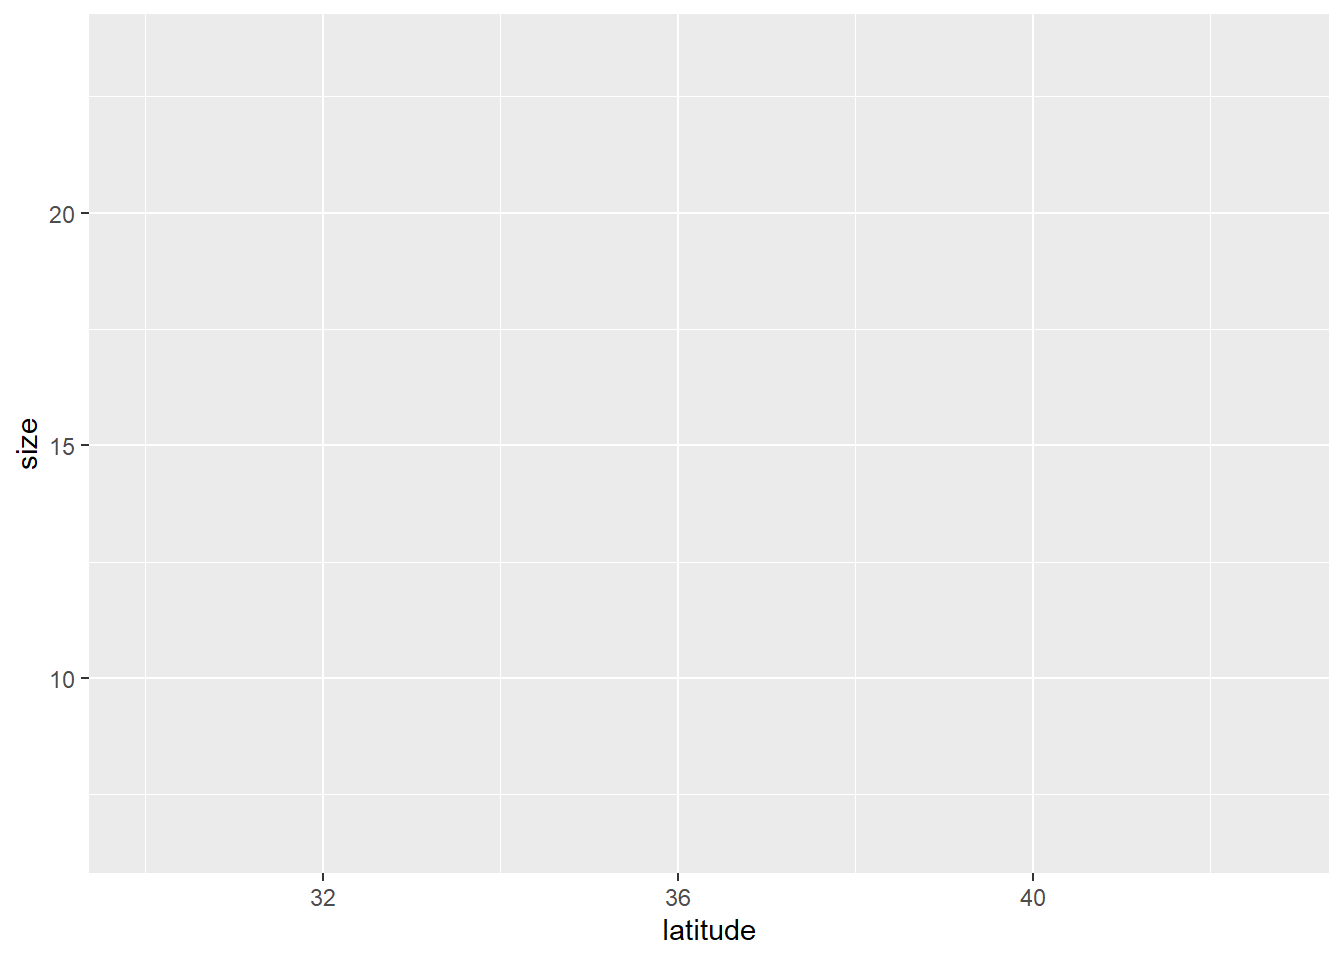
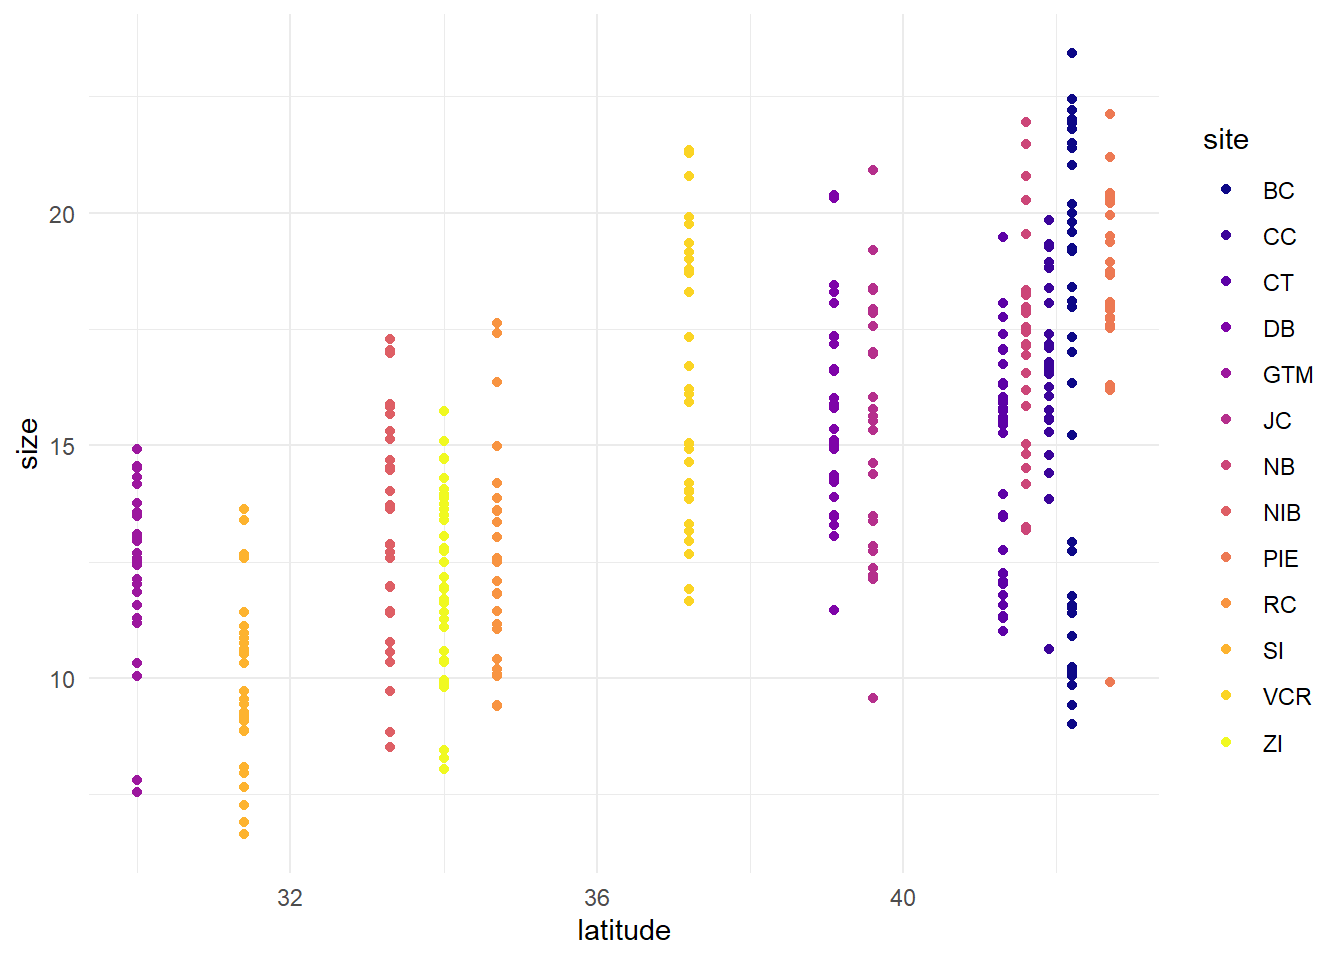
colors, scatter plot

diff --git a/test_12pm.html b/test_12pm.html
@@ -118,7 +118,7 @@ pre > code.sourceCode > span > a:first-child::before { text-decoration: underlin
 <div class="cell">
 <div class="code-copy-outer-scaffold"><div class="sourceCode cell-code" id="cb1"><pre class="sourceCode r code-with-copy"><code class="sourceCode r"><span id="cb1-1"><a href="#cb1-1" aria-hidden="true" tabindex="-1"></a><span class="fu">library</span>(tidyverse) <span class="co">#general use package</span></span>
 <span id="cb1-2"><a href="#cb1-2" aria-hidden="true" tabindex="-1"></a><span class="fu">library</span>(lterdatasampler) <span class="co">#package of data frames</span></span>
-<span id="cb1-3"><a href="#cb1-3" aria-hidden="true" tabindex="-1"></a></span>
+<span id="cb1-3"><a href="#cb1-3" aria-hidden="true" tabindex="-1"></a><span class="fu">library</span>(viridis)</span>
 <span id="cb1-4"><a href="#cb1-4" aria-hidden="true" tabindex="-1"></a><span class="fu">data</span>(pie_crab) <span class="co">#import pie_crab data</span></span></code></pre></div><button title="Copy to Clipboard" class="code-copy-button"><i class="bi"></i></button></div>
 </div>
 </section>
@@ -127,7 +127,12 @@ pre > code.sourceCode > span > a:first-child::before { text-decoration: underlin
 <div class="cell">
 <div class="code-copy-outer-scaffold"><div class="sourceCode cell-code" id="cb2"><pre class="sourceCode r code-with-copy"><code class="sourceCode r"><span id="cb2-1"><a href="#cb2-1" aria-hidden="true" tabindex="-1"></a><span class="fu">ggplot</span>( <span class="at">data =</span> pie_crab, <span class="co">#base layer for plot, data is pie_crab</span></span>
 <span id="cb2-2"><a href="#cb2-2" aria-hidden="true" tabindex="-1"></a>        <span class="fu">aes</span>(<span class="at">x =</span> latitude, <span class="co">#x axis is latitude</span></span>
-<span id="cb2-3"><a href="#cb2-3" aria-hidden="true" tabindex="-1"></a>            <span class="at">y =</span> size)) <span class="co">#y axis is size</span></span></code></pre></div><button title="Copy to Clipboard" class="code-copy-button"><i class="bi"></i></button></div>
+<span id="cb2-3"><a href="#cb2-3" aria-hidden="true" tabindex="-1"></a>            <span class="at">y =</span> size, <span class="co">#y axis is size</span></span>
+<span id="cb2-4"><a href="#cb2-4" aria-hidden="true" tabindex="-1"></a>            <span class="at">color =</span> site)) <span class="sc">+</span> <span class="co">#color by site</span></span>
+<span id="cb2-5"><a href="#cb2-5" aria-hidden="true" tabindex="-1"></a>  <span class="fu">geom_point</span>() <span class="sc">+</span> <span class="co">#scatter plot</span></span>
+<span id="cb2-6"><a href="#cb2-6" aria-hidden="true" tabindex="-1"></a>  <span class="fu">theme_minimal</span>() <span class="sc">+</span> <span class="co">#change theme</span></span>
+<span id="cb2-7"><a href="#cb2-7" aria-hidden="true" tabindex="-1"></a>  <span class="fu">scale_color_viridis</span>(<span class="at">discrete =</span> <span class="cn">TRUE</span>, <span class="co">#color-blind friendly colors palette</span></span>
+<span id="cb2-8"><a href="#cb2-8" aria-hidden="true" tabindex="-1"></a>                      <span class="at">option =</span> <span class="st">"plasma"</span>)</span></code></pre></div><button title="Copy to Clipboard" class="code-copy-button"><i class="bi"></i></button></div>
 <div class="cell-output-display">
 <div>
 <figure class="figure">
